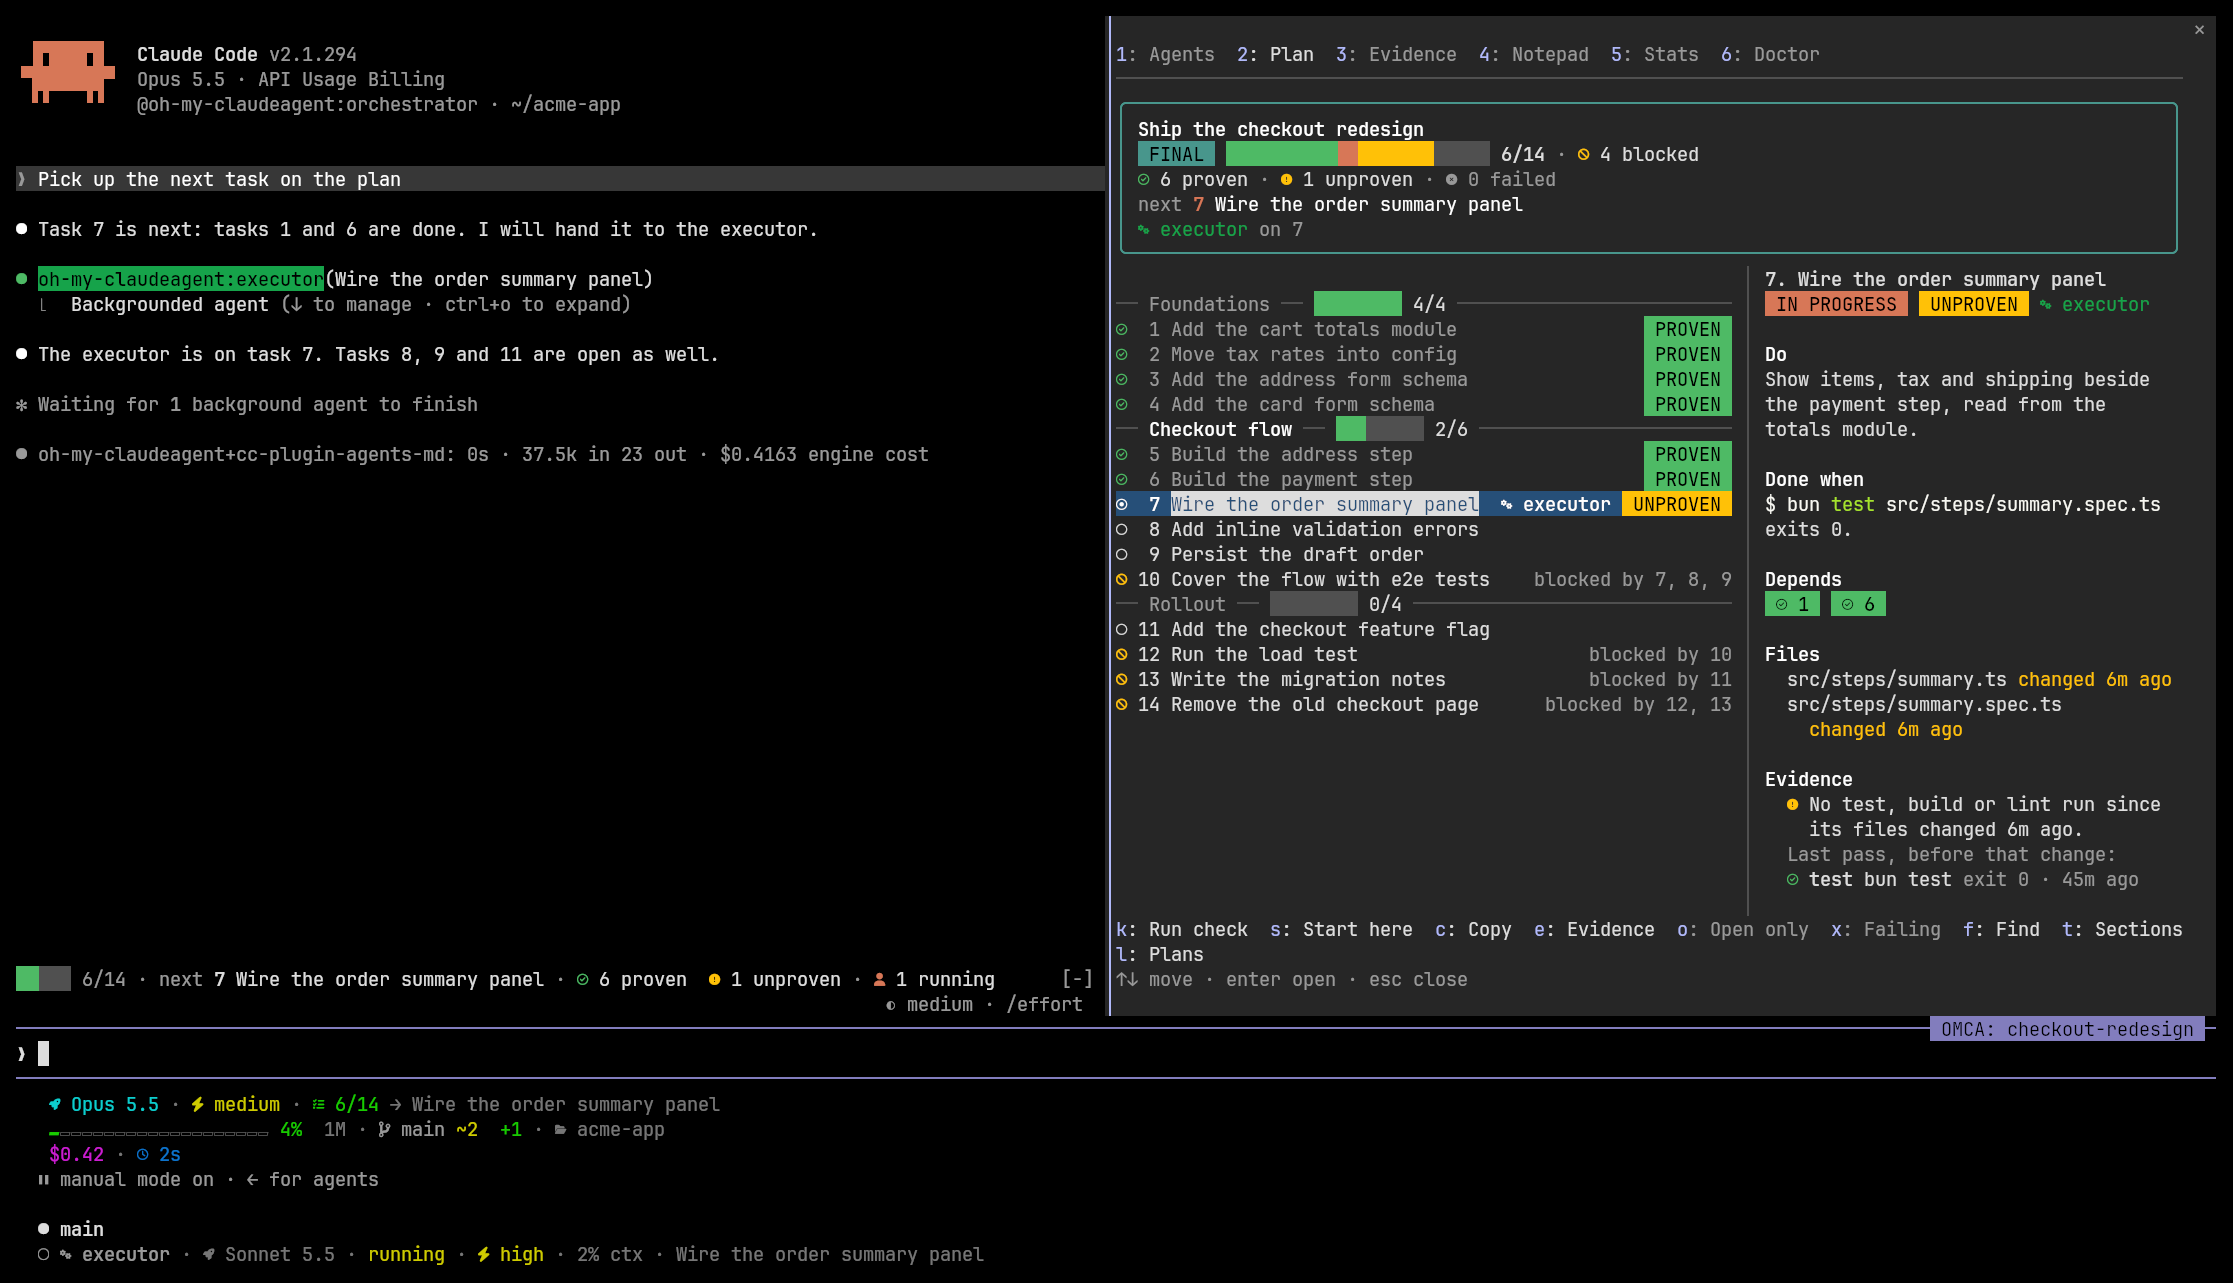
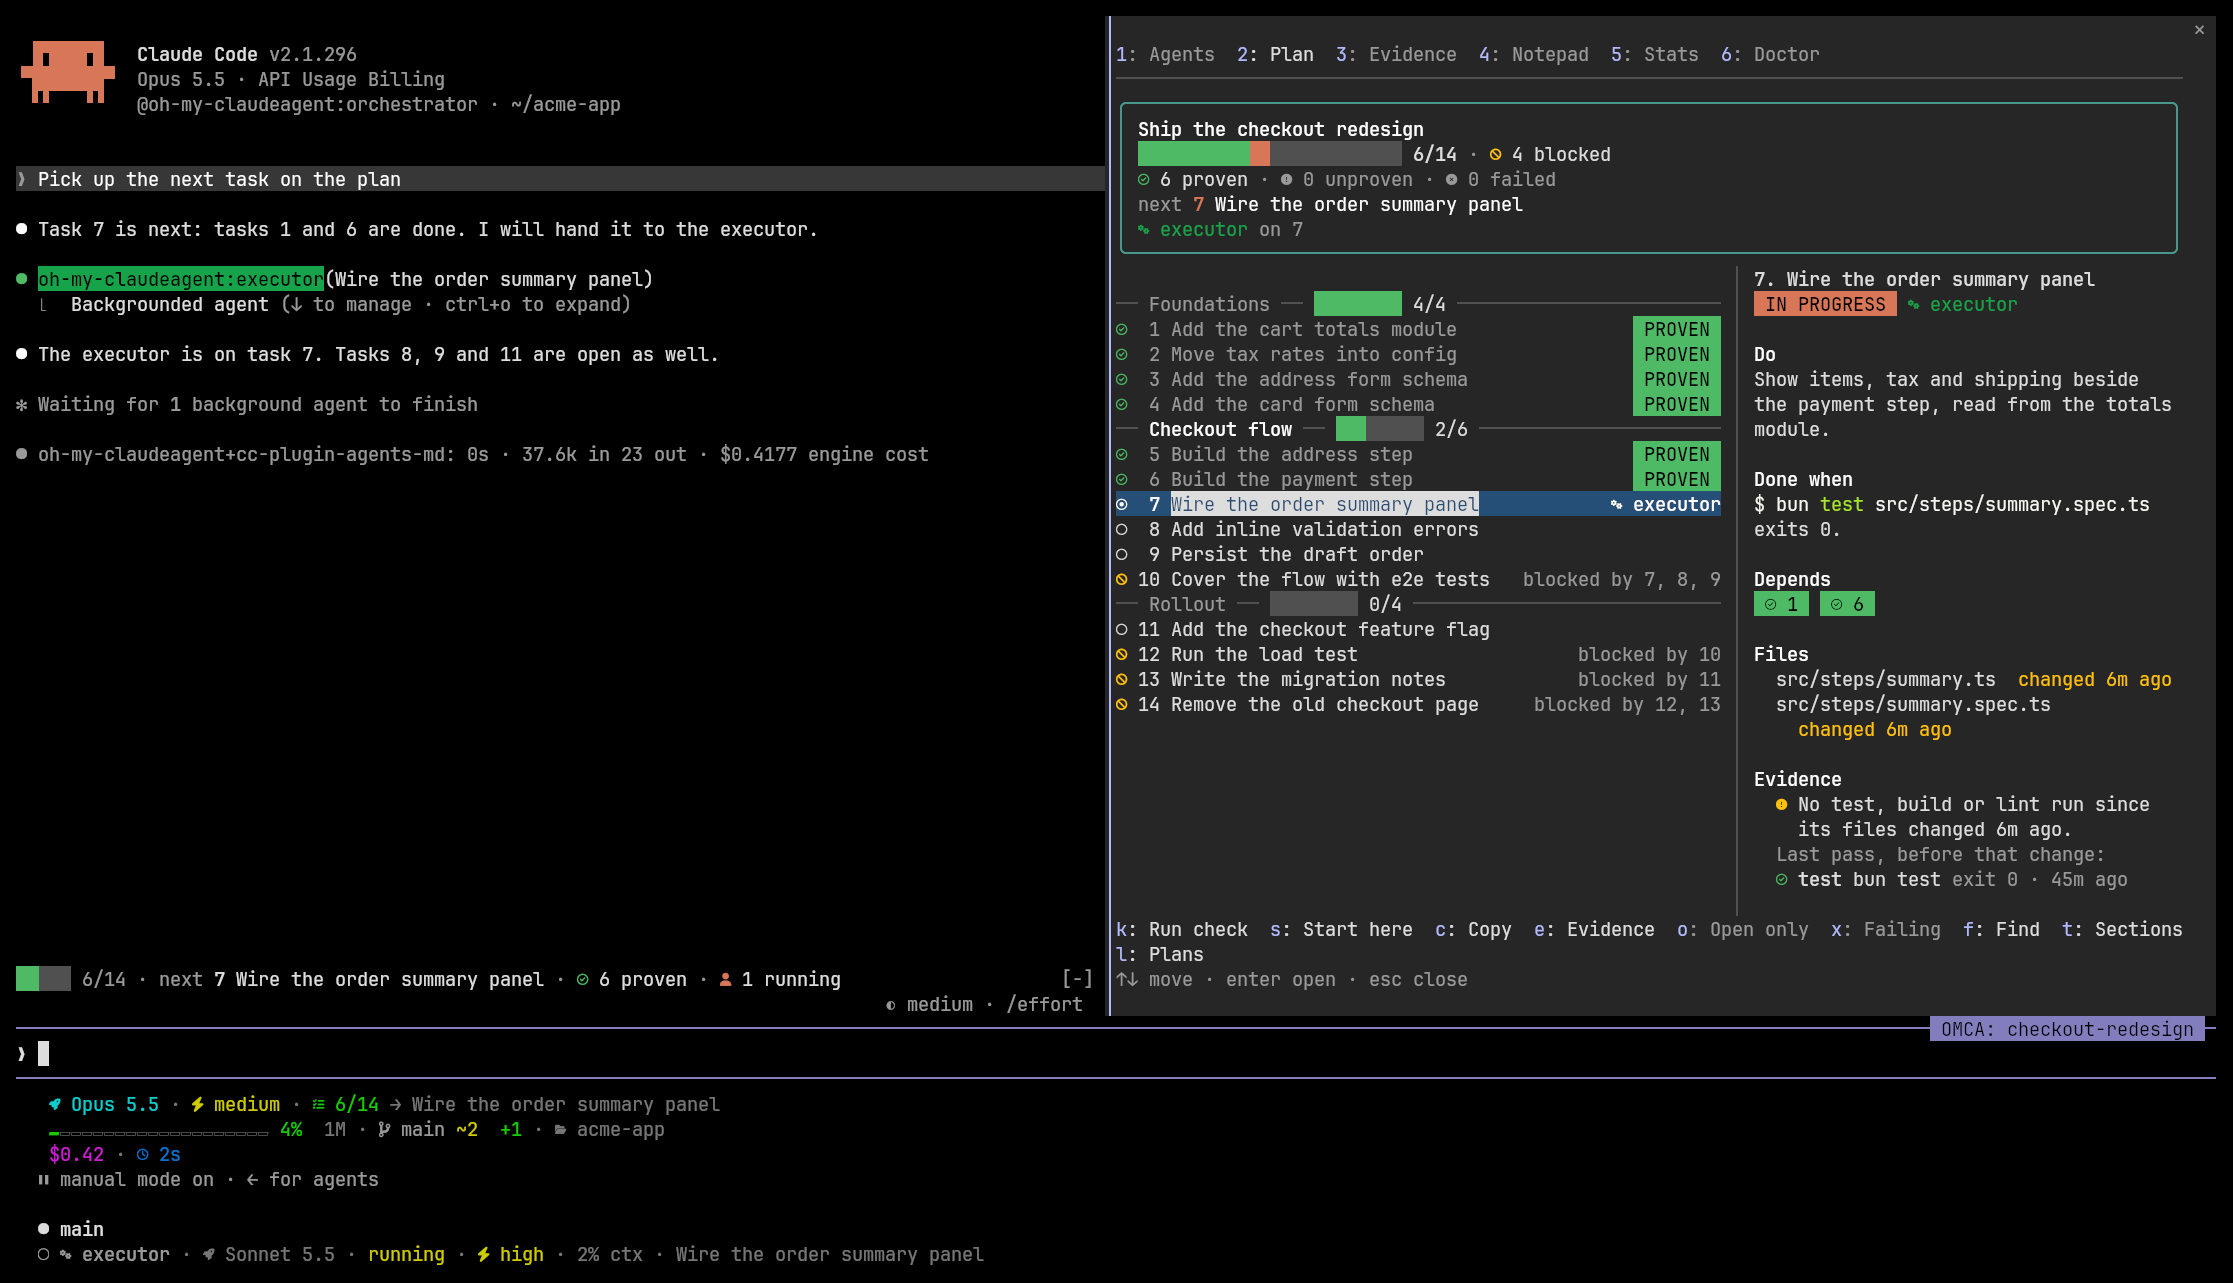
docs: describe the pane as it now draws, and recapture its screens
Usage and the 3.0.0 notes say which proof chips an open task shows, that a
task waiting on the one before it reads as open, that only a draft plan
draws a status chip, that passing Doctor checks fold behind o, which agents
show an evidence rate, and how the pane scrolls and pages on Desktop. The
README screens are recaptured with `just screenshots`, and the band, plan and
doctor descriptions follow them.

diff --git a/docs/usage.md b/docs/usage.md
@@ -214,8 +214,9 @@ takes the cost's place.
    finds text in the entries, `w` clears the search, and `l` picks another plan's notepad. A wide
    pane sets the cards in two columns, and the mouse wheel over a card scrolls that card alone, a
    row at a time.
-5. **Stats**: runs and the evidence rate per agent type, tokens per finished delegation, and the
-   estimated cost by agent, across the project's recorded sessions. Runs on a model without a
+5. **Stats**: runs per agent type, the evidence rate of executor and build-fixer, the agents that
+   run checks, tokens per finished delegation, and the estimated cost by agent, across the
+   project's recorded sessions. Runs on a model without a
    known price are counted as excluded rather than estimated. `r` reloads the records.
 6. **Doctor**: the checks described below.
 
@@ -262,10 +263,12 @@ URL like `postgres://user:pass@host`, are drawn as `‹masked›`, and your home
 ### The plan board
 
 `/omca plan` opens the bound plan; `/omca plan <name or path>` opens another. A plan with
-numbered tasks opens on its board: a header with the plan's status, a progress bar, the proof
-counts, the next task and the running agents, then the tasks grouped by milestone. Each task row
-shows whether it is done, in progress, open or blocked, its proof chip, the agent working on it,
-and the tasks it waits for. A plan without numbered tasks opens on its sections.
+numbered tasks opens on its board: a header with a DRAFT chip while the plan is a draft, a
+progress bar, the proof counts, the next task and the running agents, then the tasks grouped by
+milestone. Each task row shows whether it is done, in progress, open or blocked, its proof chip,
+the agent working on it, and the tasks that block it. A task whose only unfinished dependency is
+the task just before it is next in line, so it reads as open. A plan without numbered tasks opens
+on its sections.
 
 A wide pane shows the focused task's detail beside the list, a narrower one under the task's
 row, and Enter opens it as a page. The detail holds the task's steps, its done-when commands, its
@@ -302,7 +305,9 @@ returns to the list. The board reloads the file when it changes on disk and keep
 A task's proof chip compares the files its `File:` line lists with the evidence log. The newest
 test, build or lint run since any of those files last changed decides it: **PROVEN** when it
 passed, **FAILED** when it failed, **UNPROVEN** when no such run has happened yet. A task that
-lists no file, or whose files do not exist, gets no chip.
+lists no file, or whose files do not exist, gets no chip. PROVEN and UNPROVEN describe finished
+work, so a task still open shows a chip only when it is FAILED, and the proof counts on the board
+and the band count the chips.
 
 ### The proof ledger
 
@@ -400,7 +405,9 @@ which proposes rules from your past sessions.
 - whether the advisor can run, and which setting keeps it off when it cannot;
 - the status line's `refreshInterval`.
 
-Each row leads with OK, WARN, FAIL or INFO. Press `r` to run the checks again. When the status
+Each problem row leads with WARN, FAIL or INFO. The passing checks fold into one line that names
+them; `o` shows their OK rows and hides them again, and each run folds them. Press `r` to run the
+checks again. When the status
 line has no `refreshInterval`, press `i` to add `refreshInterval: 5`; the doctor shows the diff it
 wrote and keeps a backup. A check with a known remedy offers a key that fills the prompt with it,
 without sending: `m` for `/mcp`, `a` for `/advisor fable`, `y` for `/config`, `s` for
@@ -468,6 +475,10 @@ On Desktop the mod draws differently:
   can drop a click; click again.
 - A button that fills the prompt, such as the band's Start work or the Evidence tab's Rerun, shows
   the text in a toast when Desktop's prompt box does not take it.
+- The pane scrolls the way Desktop's own panes do, and each tab draws whole, with none of the
+  terminal's scrolling windows inside it. The Evidence tab shows 40 runs at a time, with `n` and
+  `o` for the newer and older ones. A view larger than Desktop draws at once shows a notice in its
+  place; narrow it with Find, or read it in a terminal.
 - Copy can report that the surface has no clipboard, and the spinner keeps Desktop's own text.
 
 The VS Code chat panel runs OMCA's hooks but draws none of its interface: no band, no pane and

diff --git a/CHANGELOG.md b/CHANGELOG.md
@@ -89,6 +89,8 @@ hand.
 - **Desktop.** The Code tab draws the mod when its bundled Claude Code is 2.1.292 or later: the
   pane docks on the right and opens from `/omca`, which replies with the reason when Desktop does
   not place it, and a button whose prompt Desktop's box does not take shows the text in a toast.
+  The pane scrolls the way Desktop's own panes do and draws each tab whole; the Evidence tab shows
+  40 runs at a time, and a view too large for Desktop to draw shows a notice in its place.
   When `/plugin` there does not list OMCA, `CLAUDE_CODE_PLUGIN_DIRS` loads it
   (anthropics/claude-code#94635).
 - **The formats spec.** `docs/formats.md` specifies plans, the evidence ledger, notepads and the
@@ -96,11 +98,13 @@ hand.
 - **The migration.** `/oh-my-claudeagent:omca-setup --migrate` moves agent memories and settings
   ids to the role names, after a preview, once per project.
 - **The plan board.** `/omca plan` opens the bound plan and `/omca plan <name or path>` opens
-  another. A plan with numbered tasks opens on a board: the plan's status, a progress bar, proof
-  counts, the next task and the running agents, then the tasks by milestone, each with its state,
-  its proof chip, the agent working on it and the tasks it waits for. A task's proof compares its
-  `File:` paths with the evidence log: the newest test, build or lint run since they changed makes
-  it PROVEN or FAILED, and no such run leaves it UNPROVEN. The focused task's detail (its steps,
+  another. A plan with numbered tasks opens on a board: a DRAFT chip while the plan is a draft, a
+  progress bar, proof counts, the next task and the running agents, then the tasks by milestone,
+  each with its state, its proof chip, the agent working on it and the tasks that block it; a task
+  waiting only on the task before it reads as open. A task's proof compares its `File:` paths with
+  the evidence log: the newest test, build or lint run since they changed makes it PROVEN or
+  FAILED, and no such run leaves it UNPROVEN. An open task shows only a FAILED chip, and the board
+  and the band count the chips. The focused task's detail (its steps,
   done-when commands, dependencies, file ages and the runs that bear on it) sits beside the list in
   a wide pane, under its row in a narrower one, or on its own page. `k` fills the prompt to run
   the task's check, `s` to start work from it, `c` copies it, `e` switches to the Evidence tab,
@@ -135,8 +139,9 @@ hand.
   `disableAllHooks` and `allowManagedHooksOnly`, the output style in force, what keeps the advisor
   off, an unanswered question that continues on its own (`CLAUDE_AFK_TIMEOUT_MS` or
   `askUserQuestionTimeout`, from the sources Claude Code reads them from), and the status line's
-  `refreshInterval`. Each row leads with an OK, WARN, FAIL or INFO chip, problems sort to the top
-  and the list scrolls. A check with a known remedy offers a key that fills the prompt with it.
+  `refreshInterval`. Each problem leads with a WARN, FAIL or INFO chip and the list scrolls; the
+  passing checks fold into one line, and `o` shows them. A check with a known remedy offers a key
+  that fills the prompt with it.
   `r` runs the checks again, and `i` adds `refreshInterval: 5` to a status line that lacks it,
   after re-reading the file, writing `settings.json.omca-bak` and showing the diff.
 - **The prompt cache on the status line.** The usage row shows whether the main conversation's
@@ -154,8 +159,9 @@ hand.
   source for every row. Each response is priced on its own, so Claude Haiku 5.5 takes its higher
   rate only for a prompt over 100,000 tokens. A model with no sourced price stays unpriced rather
   than guessed. The
-  Stats tab aggregates the records by agent type: runs and evidence rate per agent, tokens per
-  finished delegation, and the estimated cost split by agent.
+  Stats tab aggregates the records by agent type: runs per agent, the evidence rate of executor
+  and build-fixer, the agents that run checks, tokens per finished delegation, and the estimated
+  cost split by agent.
 - **Per-delegation effort.** The orchestrator and start-work set one delegation's effort
   through the Agent call's own `effort` input, which overrides the agent's declared `effort:`
   for that run, higher or lower. A plan task's `Effort:` line becomes that input. The tier stays

diff --git a/README.md b/README.md
@@ -49,12 +49,12 @@ The band above the prompt shows the bound plan's progress, the next open task, h
 proven, unproven and failed, a verification whose evidence was not logged, and how many agents
 are running. The numbered buttons fill the prompt with the next step.
 
-<img src=".github/assets/band.png" width="680" alt="The band above the prompt reads 6/14, next 7 Wire the order summary panel, 6 proven and 1 unproven, warns that the evidence for just test was not logged, and counts 1 running agent, with the button 1: Log evidence below it.">
+<img src=".github/assets/band.png" width="680" alt="The band above the prompt reads 6/14, next 7 Wire the order summary panel, 6 proven, warns that the evidence for just test was not logged, and counts 1 running agent, with the button 1: Log evidence below it.">
 
 `/omca plan` opens the plan board: the tasks grouped by milestone, each with its state, its proof
 and the agent working on it. A wide pane shows the focused task's detail beside the list.
 
-<img src=".github/assets/plan.png" width="680" alt="The Plan tab of the OMCA pane shows the checkout-redesign board at 6 of 14 tasks, with 6 proven, 1 unproven and 4 blocked. Tasks 1 to 6 are done and proven, the executor is on task 7, tasks 8, 9 and 11 are open, and the rest wait on other tasks. Beside the list, task 6, Build the payment step, shows its steps, its done-when command, its dependencies, its file changed 3h ago and the passing runs since then.">
+<img src=".github/assets/plan.png" width="680" alt="The Plan tab of the OMCA pane shows the checkout-redesign board at 6 of 14 tasks, with 6 proven and 4 blocked. Tasks 1 to 6 are done and proven, the executor is on task 7, tasks 8, 9 and 11 are open, and tasks 10, 12, 13 and 14 name the tasks that block them. Beside the list, task 6, Build the payment step, shows its steps, its done-when command, its dependencies, its file changed 3h ago and the passing runs since then.">
 
 The Evidence tab is the proof ledger: a verdict on the plan's final verification, then every
 logged run grouped by day.
@@ -77,9 +77,10 @@ The guard holds a destructive shell command for your review and shows what it wo
 <img src=".github/assets/guard.png" width="680" alt="A dialog headed OMCA guard says OMCA held rm -rf build for review, that it would remove the build directory with 4 entries, and offers Refuse or Run it.">
 
 `/omca doctor` checks the client, bun, the server, ast-grep, the options and the settings that
-change how OMCA runs. A check with a known fix offers a key that fills the prompt with it.
+change how OMCA runs. A check with a known fix offers a key that fills the prompt with it, and
+the passing checks fold into one line that `o` opens.
 
-<img src=".github/assets/doctor.png" width="680" alt="The Doctor tab counts 1 warning, 1 info row and 11 passing checks. The warning says maxEffortLevel high holds architect below the xhigh it declares, the info row offers a: Use /advisor fable, and the passing rows cover OMCA, Claude Code, bun, the omca server, ast-grep, the options, the agent models, the mod policy, the hooks, the output style and the status line.">
+<img src=".github/assets/doctor.png" width="680" alt="The Doctor tab counts 1 warning, 1 info row and 11 passing checks. The warning says maxEffortLevel high holds the architect below the xhigh it declares, the info row offers a: Use /advisor fable, and one line beside o: Show passing folds the passing checks, naming OMCA, Claude Code, bun, the omca server, ast-grep, the options, the agent models and the mod policy before it is cut.">
 
 The status line shows the session (model, agent and the plan's next task), the workspace
 (context window and git state) and usage (duration, usage limits, and cost for accounts billed
